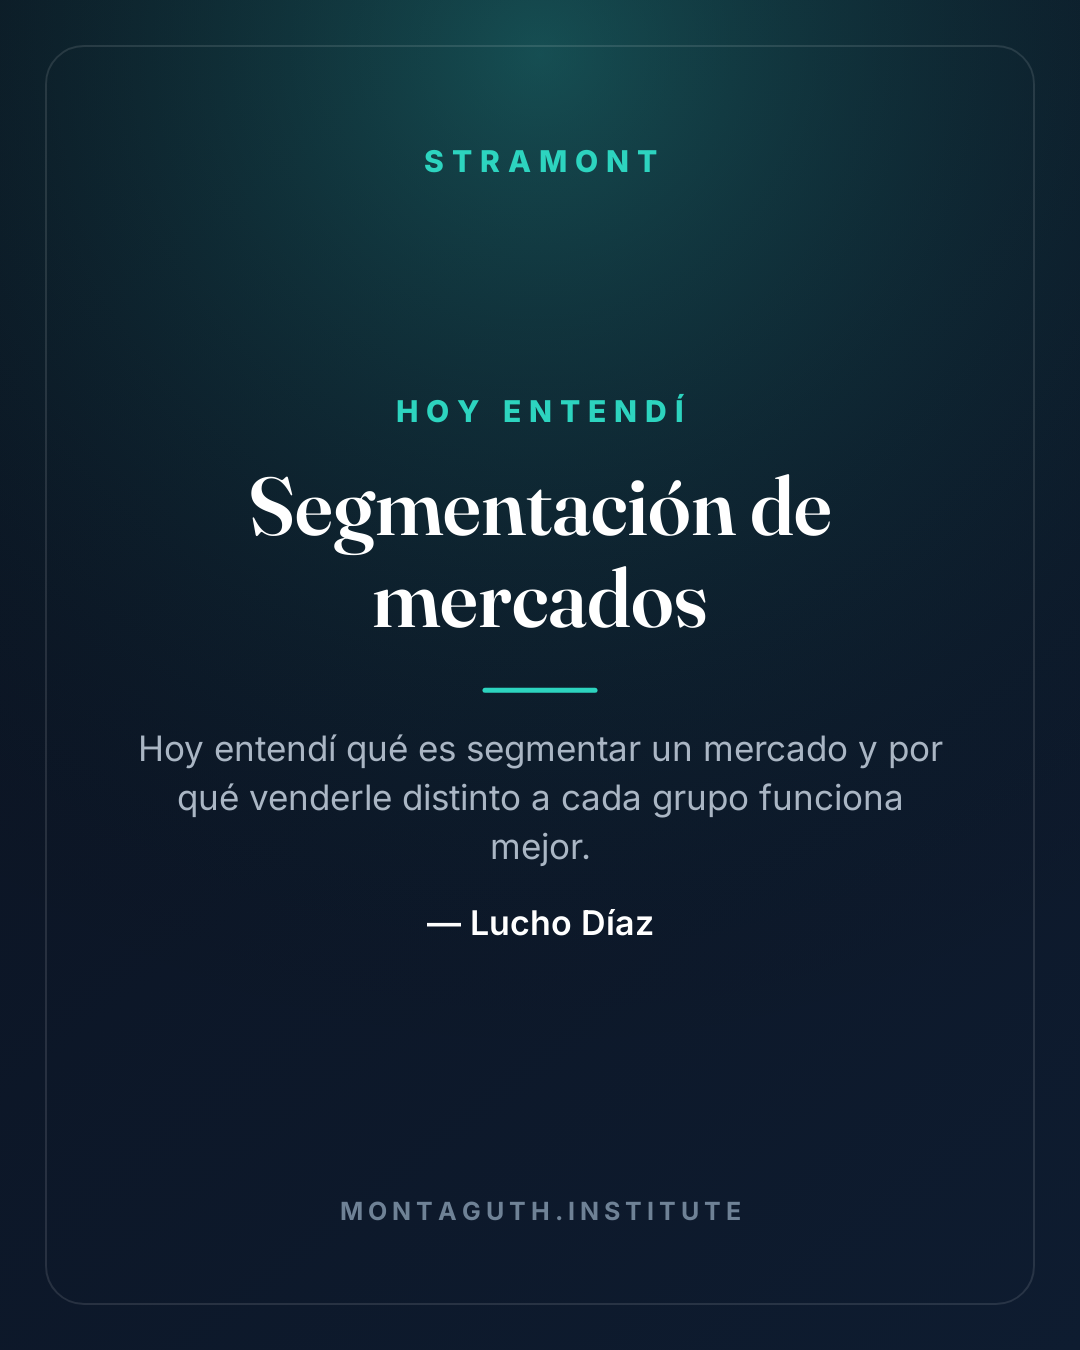
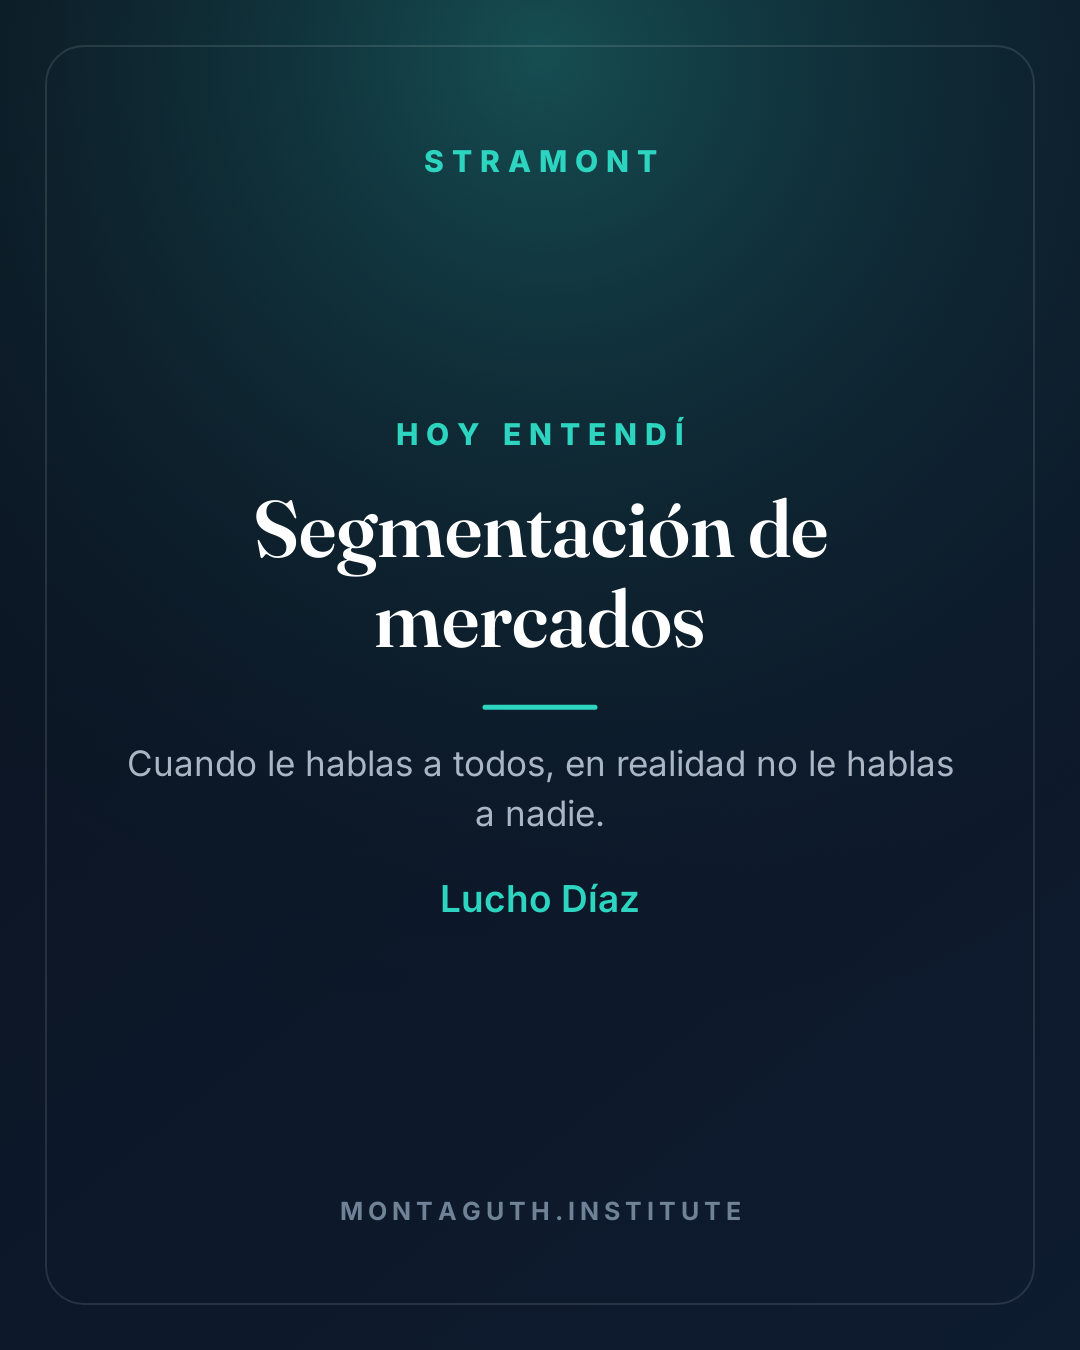
Ajustar copy de tarjetas de comprensión según feedback del dueño
- Tarjetas normales: estructura fija (HOY ENTENDÍ / Logro / Reflexión / Firma).
  El nombre ya no muestra el guion '—'; sale limpio en color de acento.
- Certificado: copy nuevo con la frase pedida, conserva el nombre del dueño
  de la guia y se elimina la fecha.
- Regenerado preview-tarjetas/ con los renders nuevos (escritorio + movil 390px).
- Verificado con Playwright: 0 errores de consola, descarga PNG OK.

Changed region(s): [[0.1222, 0.28, 0.8861, 0.7156]]

diff --git a/demo/index.html b/demo/index.html
@@ -759,7 +759,7 @@
       </div>
 
       <!-- Tarjeta de comprensión (NÚCLEO de guía, no es SOLO DEMO) -->
-      <div class="momento" data-tipo="concepto" data-concepto="Segmentación de mercados" data-linea="Hoy entendí qué es segmentar un mercado y por qué venderle distinto a cada grupo funciona mejor.">
+      <div class="momento" data-tipo="concepto" data-logro="Segmentación de mercados" data-reflexion="Cuando le hablas a todos, en realidad no le hablas a nadie.">
         <div class="momento-txt"><b>¿Sientes que esto te quedó claro?</b> Llévate una tarjeta de este momento para recordarlo.</div>
         <button class="tarjeta-btn" type="button"><svg class="lic" width="16" height="16" viewBox="0 0 24 24"><path d="M21 15v4a2 2 0 0 1-2 2H5a2 2 0 0 1-2-2v-4"/><path d="M7 10l5 5 5-5"/><path d="M12 15V3"/></svg> Descargar tarjeta</button>
       </div>
@@ -805,7 +805,7 @@
       <div class="ancla"><b>Ancla mnemónica:</b> "Un <b>MER</b>cado se <b>CORTA</b> (segmentar) con <b>4 preguntas</b>, se filtra con <b>MASA</b>, se analiza con <b>FODA</b> y se ataca con <b>1 de 4 estrategias</b>." Si recuerdas esa frase, recuerdas el 80% de la clase.</div>
 
       <!-- Tarjeta de comprensión (NÚCLEO de guía, no es SOLO DEMO) -->
-      <div class="momento" data-tipo="concepto" data-concepto="Aplicar la segmentación a un caso real" data-linea="Hoy no solo lo entendí: lo apliqué paso a paso a un caso real, de principio a fin.">
+      <div class="momento" data-tipo="concepto" data-logro="Aplicar la segmentación a un caso real" data-reflexion="Entender un concepto es útil. Poder aplicarlo es cuando de verdad se vuelve tuyo.">
         <div class="momento-txt"><b>Acabas de resolver un caso completo.</b> Guarda la tarjeta de este avance.</div>
         <button class="tarjeta-btn" type="button"><svg class="lic" width="16" height="16" viewBox="0 0 24 24"><path d="M21 15v4a2 2 0 0 1-2 2H5a2 2 0 0 1-2-2v-4"/><path d="M7 10l5 5 5-5"/><path d="M12 15V3"/></svg> Descargar tarjeta</button>
       </div>
@@ -866,7 +866,7 @@
 
     <!-- ===== CERTIFICADO DE COMPRENSIÓN (NÚCLEO de guía, no es SOLO DEMO) ===== -->
     <section id="certificado">
-      <div class="certi" data-tipo="certificado" data-tema="Segmentación de Mercados" data-materia="Dirección de Ventas">
+      <div class="certi" data-tipo="certificado" data-tema="Segmentación de Mercados" data-reflexion="No basta con dividir clientes. La clave es entender por qué compran.">
         <div class="certi-eyebrow">Terminaste la guía</div>
         <h3>Comprendiste "Segmentación de Mercados"</h3>
         <p>Descarga tu tarjeta de comprensión: una imagen con tu nombre para recordar —y mostrar— lo que hoy entendiste.</p>
@@ -919,7 +919,7 @@
       <div class="tm-sub">Personalízala y descárgala como imagen para compartirla donde quieras.</div>
       <p class="tm-label">Color</p>
       <div class="tm-colores" id="tmColores"></div>
-      <p class="tm-label">Tu nombre (opcional)</p>
+      <p class="tm-label" id="tmNombreLabel">Tu nombre (opcional)</p>
       <input class="tm-input" id="tmNombre" type="text" maxlength="32" placeholder="Escribe tu nombre" autocomplete="name">
       <div class="tm-acciones">
         <button class="tm-descargar" id="tmDescargar" type="button"><svg class="lic" width="18" height="18" viewBox="0 0 24 24"><path d="M21 15v4a2 2 0 0 1-2 2H5a2 2 0 0 1-2-2v-4"/><path d="M7 10l5 5 5-5"/><path d="M12 15V3"/></svg> Descargar imagen</button>
@@ -1174,7 +1174,6 @@
     function paletaActual(){ for(var i=0;i<PALETAS.length;i++){ if(PALETAS[i].id===estado.paleta) return PALETAS[i]; } return PALETAS[0]; }
     function pxOf(font){ var m=/(\d+(?:\.\d+)?)px/.exec(font); return m?parseFloat(m[1]):30; }
     function hexA(h,a){ h=h.replace('#',''); if(h.length===3){h=h[0]+h[0]+h[1]+h[1]+h[2]+h[2];} var r=parseInt(h.slice(0,2),16),g=parseInt(h.slice(2,4),16),b=parseInt(h.slice(4,6),16); return 'rgba('+r+','+g+','+b+','+a+')'; }
-    function fecha(){ try{ return new Date().toLocaleDateString('es-CO',{day:'numeric',month:'long',year:'numeric'}); }catch(e){ return ''; } }
     function roundRect(x,y,w,h,r){ ctx.beginPath(); ctx.moveTo(x+r,y); ctx.arcTo(x+w,y,x+w,y+h,r); ctx.arcTo(x+w,y+h,x,y+h,r); ctx.arcTo(x,y+h,x,y,r); ctx.arcTo(x,y,x+w,y,r); ctx.closePath(); }
     function wrap(text,maxW,font){ ctx.font=font; var words=String(text).split(/\s+/), lines=[], line=''; for(var i=0;i<words.length;i++){ var t=line?line+' '+words[i]:words[i]; if(ctx.measureText(t).width>maxW && line){ lines.push(line); line=words[i]; } else line=t; } if(line) lines.push(line); return lines; }
     function drawSpaced(str,cx,y,font,sp,color){
@@ -1188,18 +1187,21 @@
     // ---- bloques centrales según el tipo de tarjeta ----
     function bloques(){
       var p=paletaActual(), cfg=estado.cfg||{}, nombre=(inputNombre.value||'').trim(), arr=[];
+      // Encabezado fijo para ambas ("HOY ENTENDÍ")
+      arr.push({t:'spaced', s:'HOY ENTENDÍ', font:'800 30px Inter', sp:8, color:p.acc, gap:40});
       if(cfg.tipo==='certificado'){
-        arr.push({t:'spaced', s:'CERTIFICADO DE COMPRENSIÓN', font:'800 27px Inter', sp:5, color:p.acc, gap:36});
-        arr.push({t:'text', lines:[ nombre ? (nombre + ' comprendió') : 'Comprendí' ], font:'500 38px Inter', lh:50, color:p.txt, gap:16});
-        arr.push({t:'title', text:'"'+cfg.tema+'"', font:'600 74px Fraunces', lh:84, color:p.tit, maxW:1080-200, gap:30});
-        arr.push({t:'pill', s:'Tema comprendido', color:p.acc, gap:26});
-        arr.push({t:'text', lines:[ fecha() ], font:'500 29px Inter', lh:38, color:p.pie, gap:0});
+        // Tema → frase reflexiva (Fraunces, entre comillas) → "✓ Tema comprendido". Sin nombre, sin fecha.
+        arr.push({t:'title', text:cfg.tema||'', font:'600 80px Fraunces', lh:90, color:p.tit, maxW:1080-180, gap:32});
+        arr.push({t:'rule', color:p.acc, gap:34});
+        arr.push({t:'text', lines:wrap('“'+(cfg.reflexion||'')+'”', 1080-210, '500 41px Fraunces'), font:'500 41px Fraunces', lh:56, color:p.txt, gap:36});
+        arr.push({t:'pill', s:'Tema comprendido', color:p.acc, gap: nombre?34:0});
+        if(nombre) arr.push({t:'text', lines:[nombre], font:'600 38px Inter', lh:48, color:p.tit, gap:0});
       } else {
-        arr.push({t:'spaced', s:'HOY ENTENDÍ', font:'800 30px Inter', sp:8, color:p.acc, gap:40});
-        arr.push({t:'title', text:cfg.concepto||'', font:'600 82px Fraunces', lh:92, color:p.tit, maxW:1080-190, gap:34});
-        arr.push({t:'rule', color:p.acc, gap:36});
-        arr.push({t:'text', lines:wrap(cfg.linea||'', 1080-260, '400 35px Inter'), font:'400 35px Inter', lh:49, color:p.txt, gap: nombre?28:0});
-        if(nombre) arr.push({t:'text', lines:['— '+nombre], font:'600 34px Inter', lh:44, color:p.tit, gap:0});
+        // Logro → reflexión → firma (nombre, SIN guion).
+        arr.push({t:'title', text:cfg.logro||'', font:'600 80px Fraunces', lh:90, color:p.tit, maxW:1080-180, gap:32});
+        arr.push({t:'rule', color:p.acc, gap:34});
+        arr.push({t:'text', lines:wrap(cfg.reflexion||'', 1080-240, '400 35px Inter'), font:'400 35px Inter', lh:50, color:p.txt, gap: nombre?34:0});
+        if(nombre) arr.push({t:'text', lines:[nombre], font:'600 37px Inter', lh:47, color:p.acc, gap:0});
       }
       return arr;
     }
@@ -1271,10 +1273,9 @@
     function cfgDe(el){
       return {
         tipo: el.getAttribute('data-tipo') || 'concepto',
-        concepto: el.getAttribute('data-concepto') || '',
-        linea: el.getAttribute('data-linea') || '',
-        tema: el.getAttribute('data-tema') || '',
-        materia: el.getAttribute('data-materia') || ''
+        logro: el.getAttribute('data-logro') || '',
+        reflexion: el.getAttribute('data-reflexion') || '',
+        tema: el.getAttribute('data-tema') || ''
       };
     }
 
@@ -1300,7 +1301,7 @@
     btnDesc.addEventListener('click', function(){
       var cfg = estado.cfg || {};
       var base = (cfg.tipo==='certificado') ? 'certificado' : 'tarjeta';
-      var slug = ((cfg.tipo==='certificado' ? cfg.tema : cfg.concepto) || 'stramont')
+      var slug = ((cfg.tipo==='certificado' ? cfg.tema : cfg.logro) || 'stramont')
         .toLowerCase().normalize('NFD').replace(/[\u0300-\u036f]/g,'')
         .replace(/[^a-z0-9]+/g,'-').replace(/^-+|-+$/g,'').slice(0,40) || 'stramont';
       function baja(url){ var a=document.createElement('a'); a.href=url; a.download='stramont-'+base+'-'+slug+'.png'; document.body.appendChild(a); a.click(); a.remove(); }

diff --git a/preview-tarjetas/LEEME.md b/preview-tarjetas/LEEME.md
@@ -16,3 +16,16 @@ Se generaron con Playwright/Chromium sobre `demo/index.html` (canvas real).
 - `5-certificado-teal.png` — certificado final (paleta teal)
 - `6-modal-escritorio.png` — el modal de personalización (escritorio)
 - `7-modal-movil.png` — el modal en móvil (390px)
+
+## Cambios de esta versión (según tu feedback)
+
+- **Tarjetas normales (durante la guía)** — estructura fija:
+  Encabezado `HOY ENTENDÍ` · Logro · Reflexión (frase corta) · Firma (tu nombre).
+  El nombre ya **no** sale con el guion `—`; aparece limpio en color de acento.
+- **Certificado final** — copy nuevo:
+  `STRAMONT` · `HOY ENTENDÍ` · `Segmentación de Mercados` ·
+  *"No basta con dividir clientes. La clave es entender por qué compran."* ·
+  `✔ Tema comprendido` · **el nombre del dueño de la guía** · `montaguth.institute`.
+  Se **quitó la fecha**.
+- Verificado sin errores de consola en escritorio (1360px) y móvil (390px).
+  La descarga genera el PNG (`stramont-...-.png`) correctamente.
